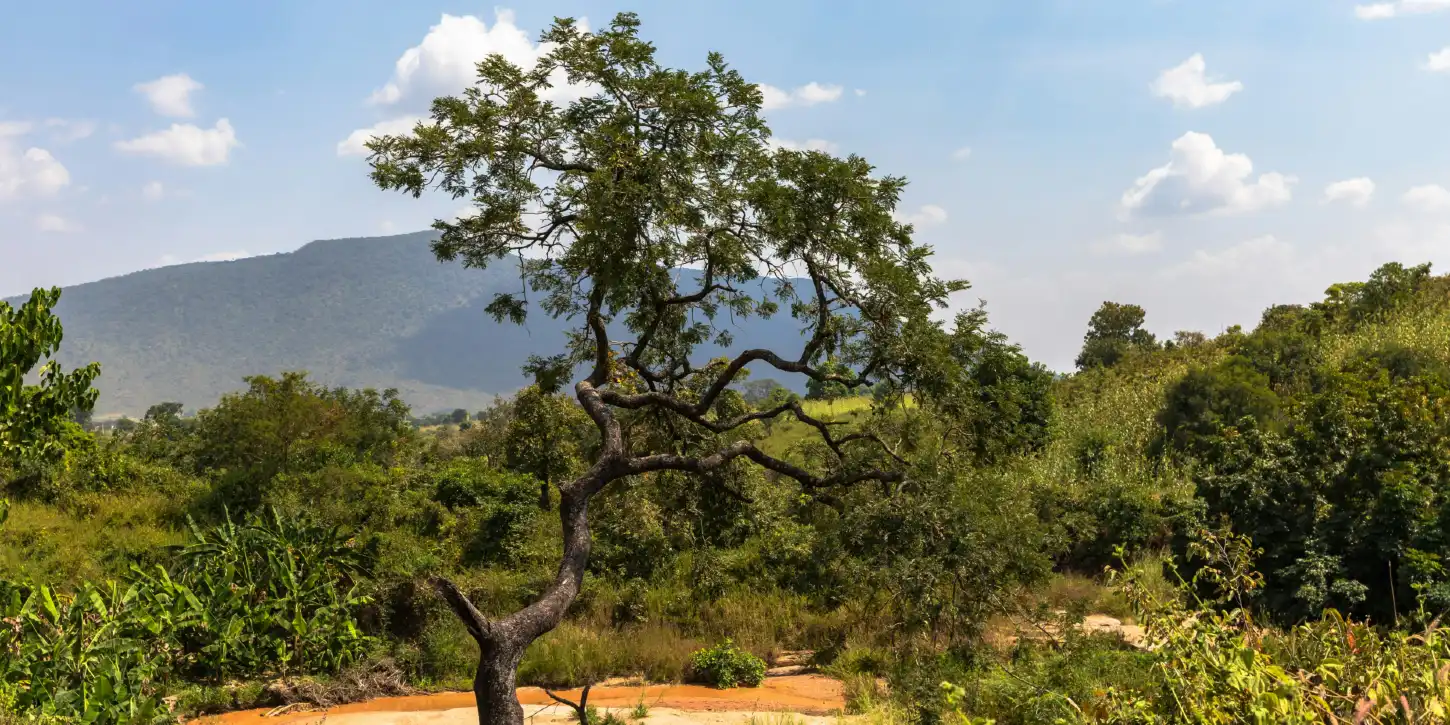
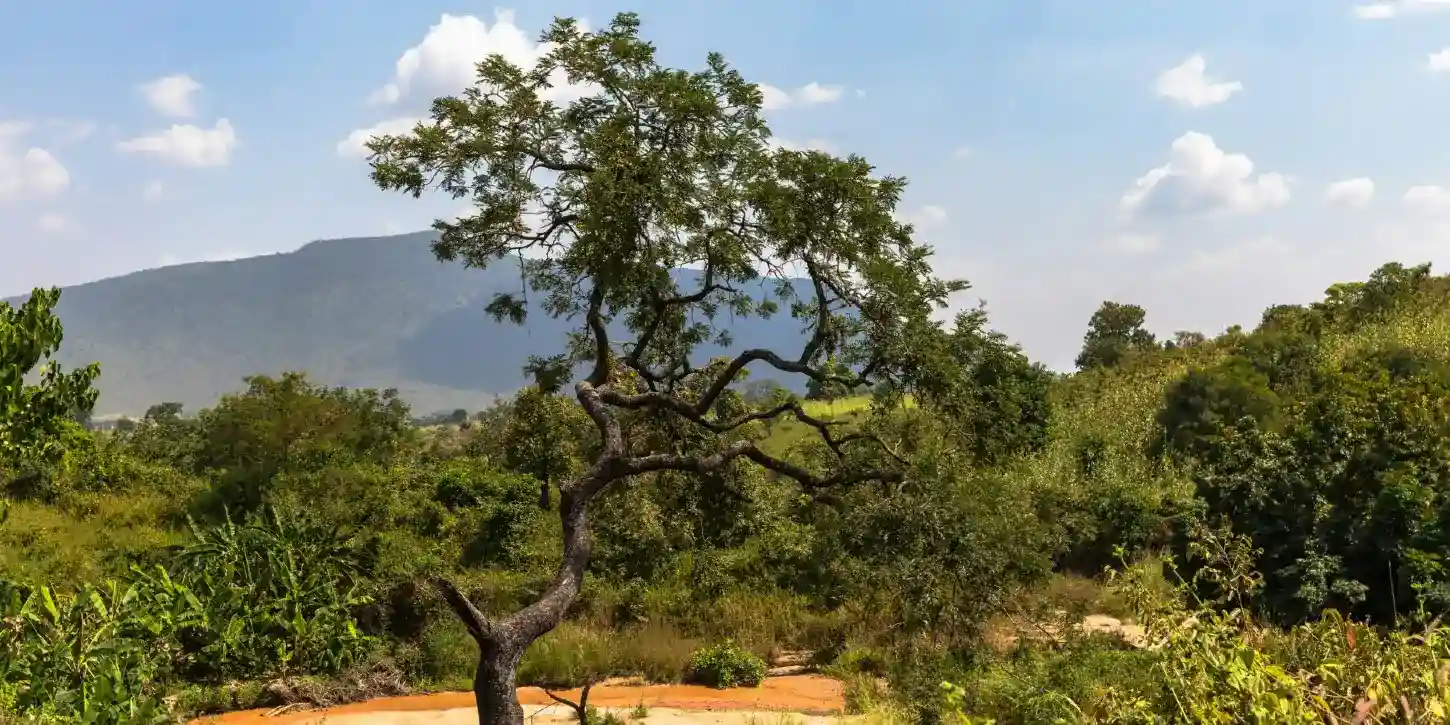
new changes

diff --git a/place.html b/place.html
@@ -11,6 +11,10 @@
     <link rel="stylesheet" href="styles/place.css">
     
     <script src="scripts/place.js" defer></script>
+    <link rel="preconnect" href="https://fonts.googleapis.com">
+    <link rel="preconnect" href="https://fonts.gstatic.com" crossorigin>
+    <link href="https://fonts.googleapis.com/css2?family=Roboto:wght@400;700&display=swap" rel="stylesheet">
+</head>
 </head>
 <body>
     <header>

diff --git a/styles/place.css b/styles/place.css
@@ -1,6 +1,6 @@
 /* CSS Variables */
 :root {
-    --primary-color: #008751;   /* Nigerian Flag Green */
+    --primary-color: #008751;   
     --secondary-color: #ffffff;
     --text-color: #1a1a1a;
     --card-bg: rgba(255, 255, 255, 0.9);
